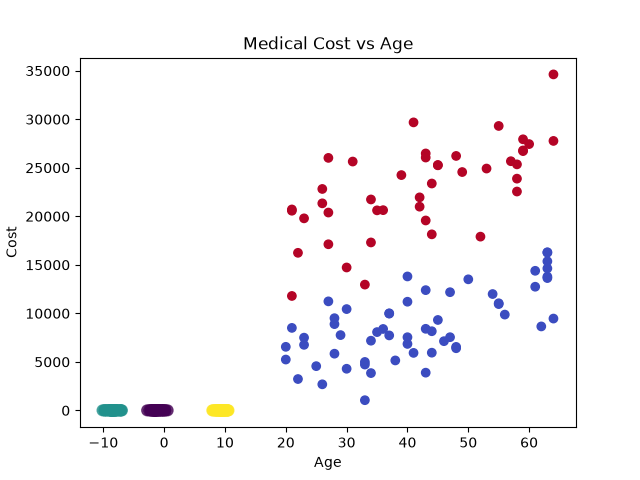
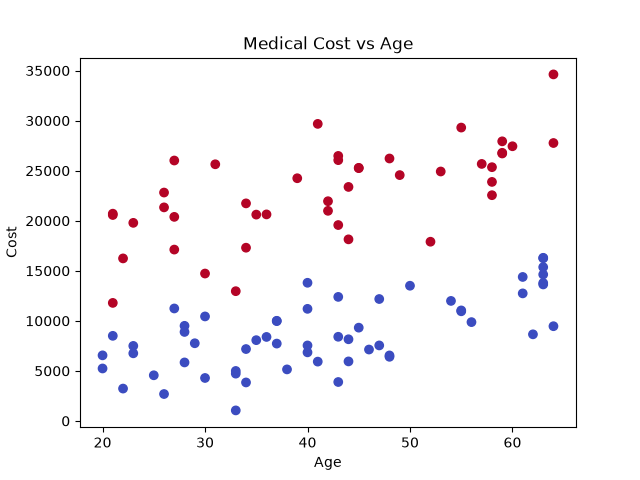
fixed

diff --git a/assignments_02/warmup_02.py b/assignments_02/warmup_02.py
@@ -28,15 +28,46 @@ print("X:", X.shape)
 # In case it 1D array, the list of numbers can present either samples or features.
 
 #scikit-learn Question 3
-X_clusters, _ = make_blobs(n_samples=120, centers=3, cluster_std=0.8, random_state=7)
-kmeans = KMeans(n_clusters = 3, random_state = 42)
+X_clusters, _ = make_blobs(
+    n_samples=120,
+    centers=3,
+    cluster_std=0.8,
+    random_state=7
+)
+
+kmeans = KMeans(n_clusters=3, random_state=42)
+
 kmeans.fit(X_clusters)
+
 labels = kmeans.predict(X_clusters)
+
 print("Cluster centers", kmeans.cluster_centers_)
 print("Number of points", np.bincount(labels))
-plt.scatter(X_clusters[:, 0], X_clusters[:, 1], c = labels, cmap = 'viridis', s = 60, alpha = 0.7)
-plt.title("Data clusters found by K-Means")
+
+plt.scatter(
+    X_clusters[:, 0],
+    X_clusters[:, 1],
+    c=labels,
+    cmap="viridis",
+    s=60,
+    alpha=0.7
+)
+
+# Plot cluster centers as black X's
+plt.scatter(
+    kmeans.cluster_centers_[:, 0],
+    kmeans.cluster_centers_[:, 1],
+    marker="X",
+    c="black",
+    s=200
+)
+
+plt.title("K-Means Clustering")
+plt.xlabel("Feature 1")
+plt.ylabel("Feature 2")
+
 plt.savefig("outputs/kmeans_clusters.png")
+plt.close()
 
 # Linear regression
 np.random.seed(42)
@@ -70,6 +101,7 @@ print("Slope:", model.coef_[0])
 print("Intercept:", model.intercept_)
 print("RMSE:", np.sqrt(np.mean((y_pred - y_test) ** 2)))
 print("r2:", model.score(X_test, y_test))
+
 # The slope means that the cost increases by the slope value for each additional year of age.
 # r2 is very low because data falls into two groups smokers and non-smokers, and we don't use this variable here.
 

diff --git a/assignments_02/project_02.py b/assignments_02/project_02.py
@@ -13,6 +13,7 @@ st_perf_df = pd.read_csv("student_performance_math.csv", sep=";")
 print(st_perf_df.shape)
 print(st_perf_df.head())
 print(st_perf_df.info())
+print(st_perf_df.dtypes)
 plt.hist(st_perf_df["G3"], bins=21, color="skyblue")
 plt.title("Distribution of Final Math Grades")
 plt.xlabel("Final Math Grade (G3)")
